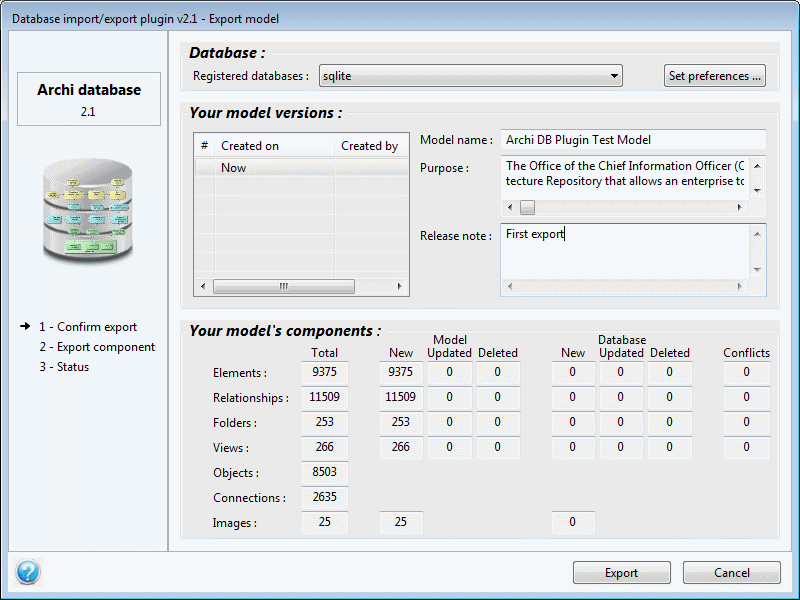
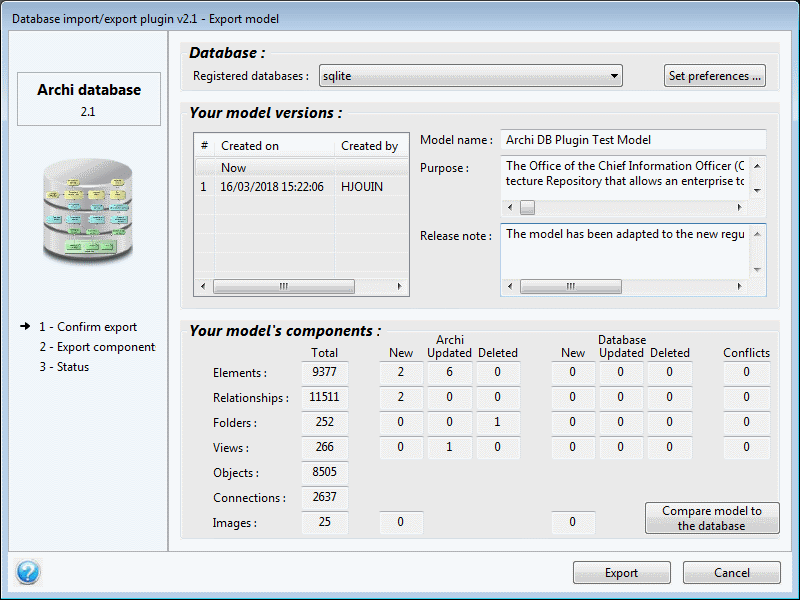
fill in inline help

diff --git a/v2/sources/help/html/exportModel.html b/v2/sources/help/html/exportModel.html
@@ -25,48 +25,14 @@
 			padding-left: 20px;
 			display: block;
 		}
-		#toc {
-		    background: #f9f9f9 none repeat scroll 0 0;
-		    border: 1px solid #aaa;
-		    display: table;
-		    font-size: 95%;
-		    margin-bottom: 1em;
-		    padding: 20px;
-		    width: auto;
-		    margin-left: 10%;
-		}
-		.toc_title {
-		    font-weight: 700;
-		    text-align: center;
-		    color: blue;
-		    text-decoration: underline;
-		}
-		#toc li, #toc ul, #toc ul li {
-		    list-style: outside none none !important;
-		}
 	</style>
 </head>
 
 <body>
 <h1 style="color: blue; text-decoration: underline;">Database structure</h1>
 <br>
-<div id="toc">
-<p class="toc_title">Table of contents</p>
-<ul class="toc_list">
-   <li><a href="#1">1. The graphical interface</a><ul>
-      <li><a href="#1.1">1.1. The database selection</a></li>
-      <li><a href="#1.2">1.2. The versions of the model</a><li>
-      <li><a href="#1.3">1.3. The model's components</a></li>
-   </ul></li>
-   <li><a href="#2">2. The export process</a><ul>
-      <li><a href="#2.1">2.1. The standalone mode</a></li>
-      <li><a href="#2.2">1.2. The collaborative mode</a><li>
-   </ul></li>
-</ul>
-</div>
-<br>
 This page describes the export of a model in a database.<br>
-<img class="image" src="../img/export-gui.jpg"><br>
+<img class="image" src="../img/export-gui.png"><br>
 <br>
 <h3 id="1" style="color: blue; text-decoration: underline;">1. The graphical interface</h3>
 The right hand-side of the export window is split in 3 zones:
@@ -77,11 +43,31 @@ The right hand-side of the export window is split in 3 zones:
 </ul>
 <br>
 <h4 id="1.1" style="color: blue; text-decoration: underline;">1.1 The database selection</h4>
-
-
+This section allows to select the database where the model should be exported. The databases are presented in the order defined on the preference page.<br>
+<br>
+The "set preferences" button allows to directly open the preference page to update the database list or set preferences.<br>  
+<br>
 <h4 id="1.2" style="color: blue; text-decoration: underline;">1.2 The versions of the model</h4>
-
-
+This section lists the versions of the model that already exist in the database.<br>
+<br>
+The "Now" line represents the version that will be exported in the database. It allows to change the model name and purpose, but also to set a release note.<br>
+<br> 
 <h4 id="1.3" style="color: blue; text-decoration: underline;">1.3 The model's components</h4>
+This section lists how many components are present in your model.<br>
+<br>
+The plugin maintain several versions of the model and all of its components:
+<ul>
+   <li><b>Current version</b>: means as it is now (as it is shown in Archi)</li>
+   <li><b>Initial version</b>: means as it was when it has been imported from the database, or as it is in the latest database version if the model has been loaded from an Archimate file.</li>
+   <li><b>Database version<b></b></b>: means as it is in the database. As the database keeps the whole history (i.e. all the old versions), we are often talking about the latest database version which means the latest version stored in the database.</li>
+</ul>
+If the "compare model to the database before export" option is set on the preference page, or if one clicks on the "Compare model to the database" button, then the plugin compares all the model's components between the current version and the database version.<br>
+<br>
+<h3 id="2" style="color: blue; text-decoration: underline;">2. The export process</h3>
+The first action of the plugin is to determine a point in time that will be used to determine what needs to be exported to the database:
+<ul>
+   <li>If the model is being exported to the same database it has been imported from, then this point in time is when the model has been imported,</li>
+   <li>If the model is being exported to a different database, or if the model has been loaded from an Archimate file, then this point is time is when the model has been exported forthe mast time in the database.</li> 
+</ul>
 </body>
 </html>

diff --git a/v2/sources/help/html/databaseStructure.html b/v2/sources/help/html/databaseStructure.html
@@ -25,53 +25,11 @@
 			padding-left: 20px;
 			display: block;
 		}
-		#toc {
-		    background: #f9f9f9 none repeat scroll 0 0;
-		    border: 1px solid #aaa;
-		    display: table;
-		    font-size: 95%;
-		    margin-bottom: 1em;
-		    padding: 20px;
-		    width: auto;
-		    margin-left: 10%;
-		}
-		.toc_title {
-		    font-weight: 700;
-		    text-align: center;
-		    color: blue;
-		    text-decoration: underline;
-		}
-		#toc li, #toc ul, #toc ul li {
-		    list-style: outside none none !important;
-		}
 	</style>
 </head>
 
 <body>
 <h1 style="color: blue; text-decoration: underline;">Database structure</h1>
-<br>
-<div id="toc">
-<p class="toc_title">Table of contents</p>
-<ul class="toc_list">
-   <li><a href="#1">1. Tables</a><ul>
-      <li><a href="#1.1">1.1. database_version</a></li>
-      <li><a href="#1.2">1.2. models</a><li>
-      <li><a href="#1.3">1.3. folders</a></li>
-      <li><a href="#1.4">1.4. folders_in_model</a></li>
-      <li><a href="#1.5">1.5. elements</a></li>
-      <li><a href="#1.6">1.6. elements_in_model</a></li>
-      <li><a href="#1.7">1.7. relationships</a></li>
-      <li><a href="#1.8">1.8. relationships_in_model</a></li>
-      <li><a href="#1.9">1.9. views</a></li>
-      <li><a href="#1.10">1.10. views_in_model</a></li>
-      <li><a href="#1.11">1.11. views_objects</a></li>
-      <li><a href="#1.12">1.12. views_connections</a></li>
-      <li><a href="#1.13">1.13. bendpoints</a></li>
-      <li><a href="#1.14">1.14. images</a></li>
-      <li><a href="#1.15">1.15. properties</a></li>
-   </ul></li>
-</ul>
-</div>
 <br>
 This page describes the structure of the tables needed by the database plugin in relational databases.<br>
 <img class="image" src="../img/databaseStructure.jpg"><br>

diff --git a/v2/sources/help/html/configurePlugin.html b/v2/sources/help/html/configurePlugin.html
@@ -25,51 +25,11 @@
 			padding-left: 20px;
 			display: block;
 		}
-		#toc {
-		    background: #f9f9f9 none repeat scroll 0 0;
-		    border: 1px solid #aaa;
-		    display: table;
-		    font-size: 95%;
-		    margin-bottom: 1em;
-		    padding: 20px;
-		    width: auto;
-		    margin-left: 10%;
-		}
-		.toc_title {
-		    font-weight: 700;
-		    text-align: center;
-		    color: blue;
-		    text-decoration: underline;
-		}
-		#toc li, #toc ul, #toc ul li {
-		    list-style: outside none none !important;
-		}
 	</style>
 </head>
 
 <body>
 <h1 style="color: blue; text-decoration: underline;">Configuring the plugin</h1>
-<br>
-<div id="toc">
-<p class="toc_title">Table of contents</p>
-<ul class="toc_list">
-   <li><a href="#1">1. Behaviour</a><ul>
-      <li><a href="#1.1">1.1. Version</a></li>
-      <li><a href="#1.2">1.2. Databases</a><ul>
-         <li><a href="#1.2.1">1.2.1. Client/server relational databases</a></li>
-         <li><a href="#1.2.2">1.2.2. SQLite databases</a></li>
-         <li><a href="#1.2.3">1.2.3. Neo4j databases</a></li>
-      </ul></li>
-      <li><a href="#1.3">1.3. Miscellanous</a></li>
-      <li><a href="#1.4">1.4. Online help</a></li>
-   </ul></li>
-   <li><a href="#2">2. Logger</a><ul>
-      <li><a href="#2.1">2.1. Disabled</a></li>
-      <li><a href="#2.2">2.2. Simple mode</a></li>
-      <li><a href="#2.3">2.3. Expert mode</a></li>
-   </ul></li>
-</ul>
-</div>
 <br>
 The plugin can be configured through a preference page that can be accessed using Archi menu Edit / Preference / Database plugin.
 

diff --git a/v2/sources/src/org/archicontribs/database/GUI/DBGuiExportModel.java b/v2/sources/src/org/archicontribs/database/GUI/DBGuiExportModel.java
@@ -364,7 +364,7 @@ public class DBGuiExportModel extends DBGui {
         
         this.lblModel = new Label(this.grpComponents, SWT.CENTER);
         this.lblModel.setBackground(GROUP_BACKGROUND_COLOR);
-        this.lblModel.setText("Model");
+        this.lblModel.setText("Archi");
         fd = new FormData();
         fd.top = new FormAttachment(0, -8);
         fd.left = new FormAttachment(33, 0);
@@ -755,8 +755,7 @@ public class DBGuiExportModel extends DBGui {
         
         /* * * * * */
         this.btnCompareModelToDatabase = new Button(this.grpComponents, SWT.WRAP);
-        this.btnCompareModelToDatabase.setVisible(!DBPlugin.INSTANCE.getPreferenceStore().getBoolean("compareBeforeExport"));
-        this.btnCompareModelToDatabase.setText("Compare model to database");
+        this.btnCompareModelToDatabase.setText("Compare model to\nthe database");
         fd = new FormData(26,18);
         fd.top = new FormAttachment(this.txtTotalViewConnections, 15, SWT.TOP);
         fd.left = new FormAttachment(this.lblDatabaseUpdated, 0);
@@ -866,7 +865,7 @@ public class DBGuiExportModel extends DBGui {
 			return;
 		}
 		
-        this.btnCompareModelToDatabase.setVisible(!isNeo4j && !DBPlugin.INSTANCE.getPreferenceStore().getBoolean("compareBeforeExport"));
+        this.btnCompareModelToDatabase.setVisible(!isNeo4j);
         
 		if ( !isNeo4j && DBPlugin.INSTANCE.getPreferenceStore().getBoolean("compareBeforeExport") ) {
 		    // if the compareBeforeExport is set
@@ -944,8 +943,6 @@ public class DBGuiExportModel extends DBGui {
 		this.txtNewViewsInModel.setText("");			this.txtUpdatedViewsInModel.setText("");			this.txtNewViewsInDatabase.setText("");				this.txtUpdatedViewsInDatabase.setText("");				this.txtConflictingViews.setText("");
 		
 		this.btnDoAction.setText("Export");
-		
-        this.btnCompareModelToDatabase.setVisible(!isNeo4j && !DBPlugin.INSTANCE.getPreferenceStore().getBoolean("compareBeforeExport"));
 	}
 	
 	/**

diff --git a/v2/sources/src/org/archicontribs/database/DBLogger.java b/v2/sources/src/org/archicontribs/database/DBLogger.java
@@ -29,6 +29,9 @@ import org.archicontribs.database.GUI.DBGui;
  */
 public class DBLogger {
 	static private boolean initialised = false;
+	private String topCornerString = (char)0x250c+" ";
+	private String verticalString = (char)0x2502+" ";
+	private String bottomCornerString = (char)0x2514+" ";
 	private Logger logger;
 
 	public <T> DBLogger(Class<T> clazz) {
@@ -94,11 +97,11 @@ public class DBLogger {
 			if ( lines.length == 1 ) {
 				this.logger.log(className, level, "- "+message.replace("\r",""), t);
 			} else {
-				this.logger.log(className, level, "┌ "+lines[0].replace("\r",""), null);
+				this.logger.log(className, level, this.topCornerString+lines[0].replace("\r",""), null);
 				for ( int i=1 ; i < lines.length-1 ; ++i) {
-					this.logger.log(className, level, "│ "+lines[i].replace("\r",""), null);
+					this.logger.log(className, level, this.verticalString+lines[i].replace("\r",""), null);
 				}
-				this.logger.log(className, level, "└ "+lines[lines.length-1].replace("\r",""), t);
+				this.logger.log(className, level, this.bottomCornerString+lines[lines.length-1].replace("\r",""), t);
 			}
 		}
 	}
